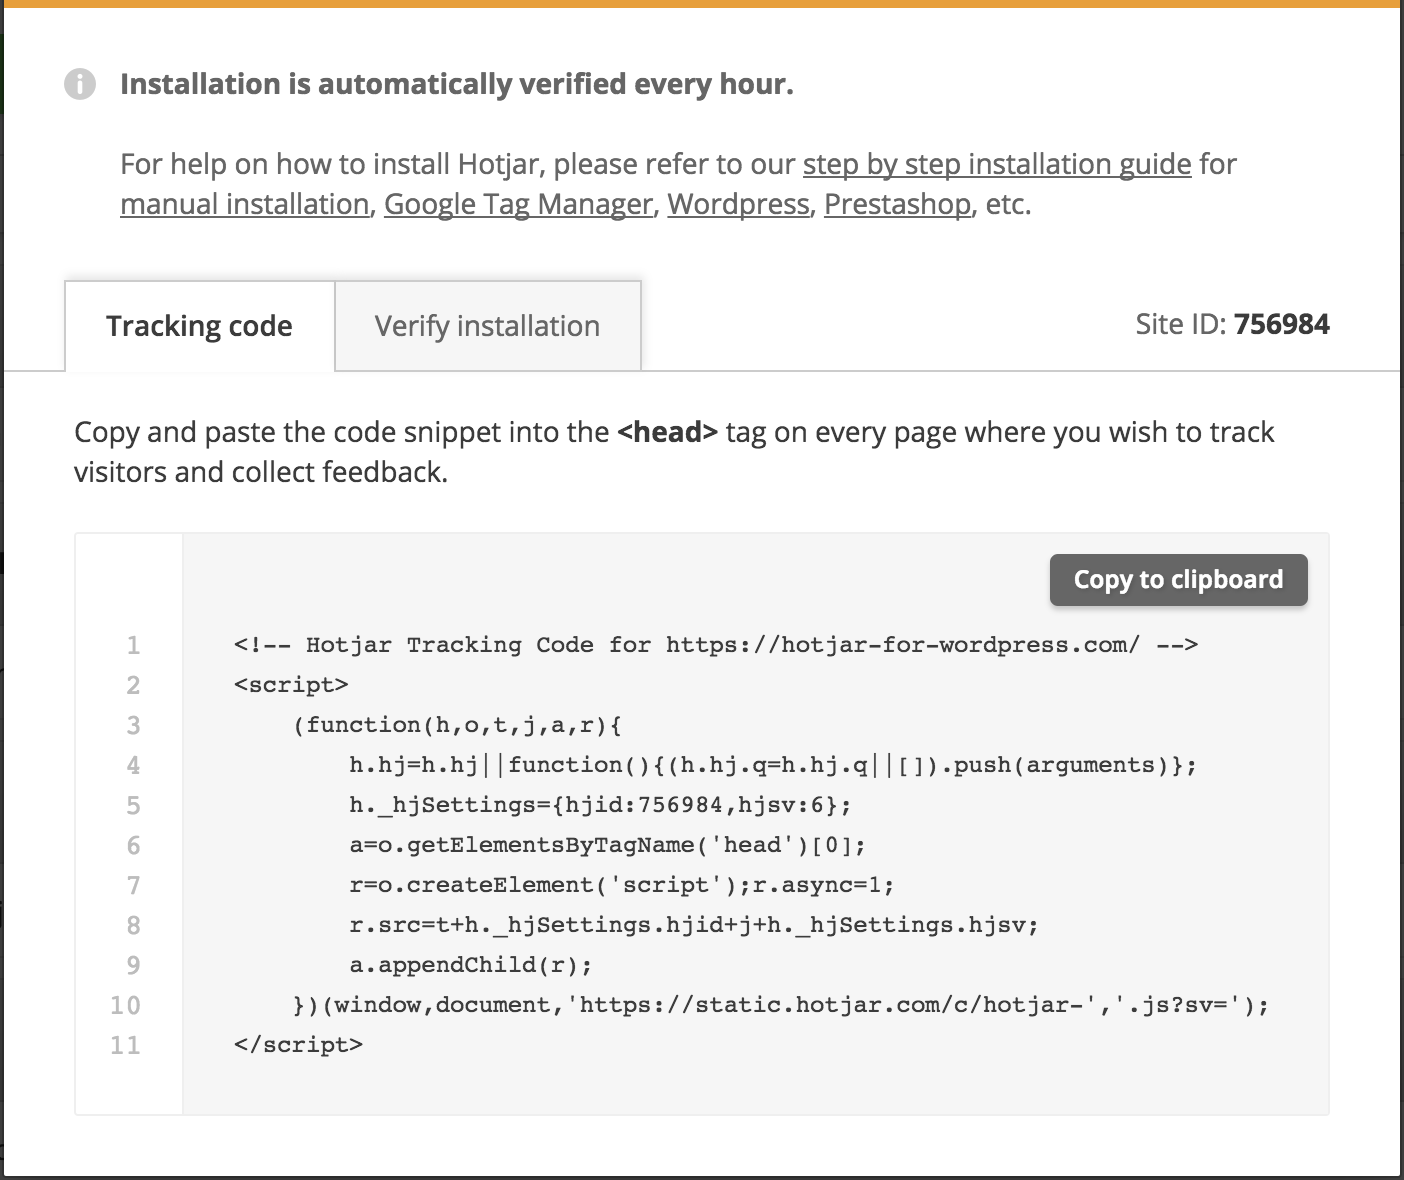
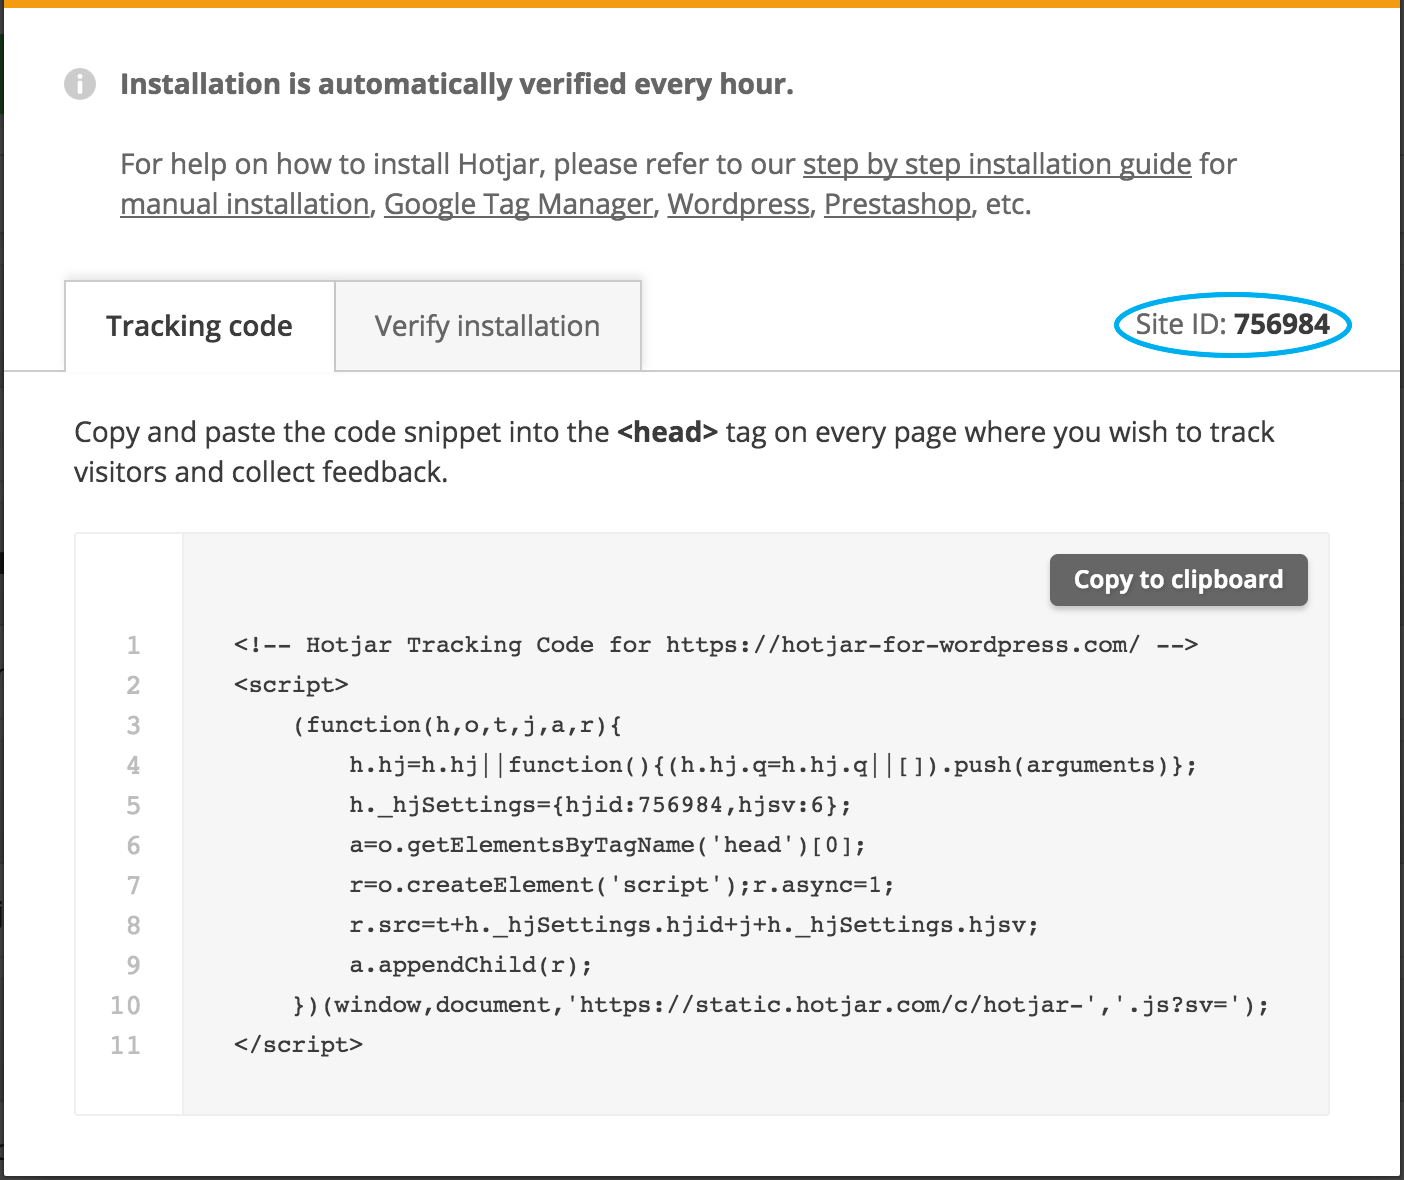
Cleaned Up code and added new image
Cleaned up the code a little and added an additional image to help locate the tracking code easier.

Changed region(s): [[0.0, 0.0, 1.0, 0.0305], [0.7963, 0.2441, 0.9494, 0.3051]]

diff --git a/sws_hotjar.php b/sws_hotjar.php
@@ -101,8 +101,9 @@ function sws_hotjar_options_page(  ) {
     <img src="<?php echo plugins_url( 'images/screenshot-2.png', __FILE__ ); ?>" alt="Hotjar Screenshot" width="500px"/><br>
     <img src="<?php echo plugins_url( 'images/screenshot-3.png', __FILE__ ); ?>" alt="Hotjar Screenshot" width="500px"/><br>
     <hr>
-    <p>You can also click here to locate the tracking code screen if you haven't set it up yet</p>
+    <p>You can also click on these buttons to locate the tracking code screen in the upper right hand corner of the Hotjar page.</p>
     <img src="<?php echo plugins_url( 'images/screenshot-4.png', __FILE__ ); ?>" alt="Hotjar Screenshot" width="500px"/></br>
+    <img src="<?php echo plugins_url( 'images/screenshot-5.png', __FILE__ ); ?>" alt="Hotjar Screenshot" width="500px"/></br>
 	</form>
 	<?php
 
